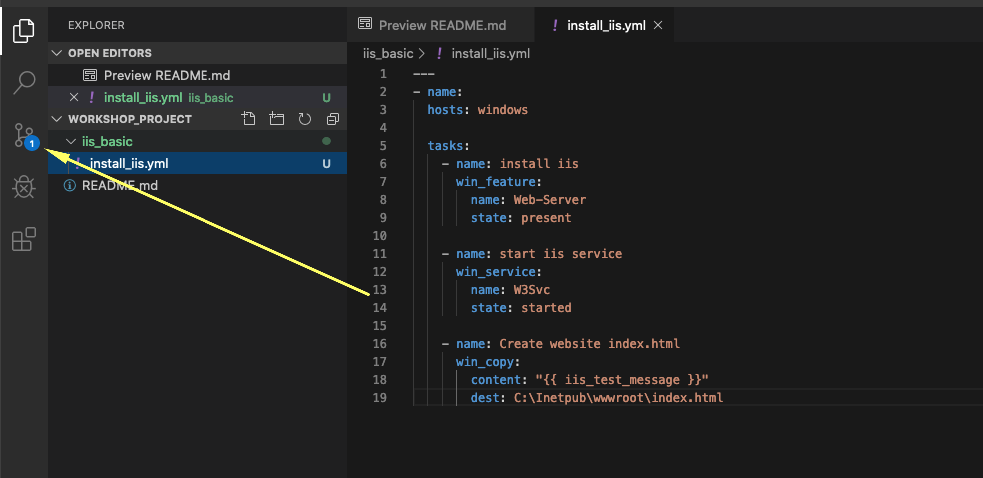
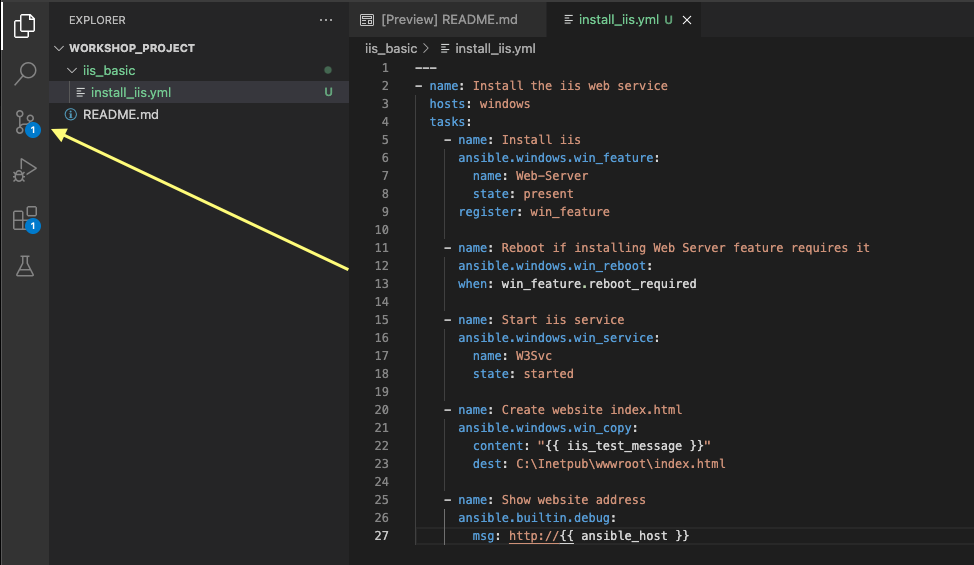
adding new images and updating README to better reflect experience when running this module

diff --git a/exercises/ansible_windows/3-playbook/README.md b/exercises/ansible_windows/3-playbook/README.md
@@ -140,6 +140,11 @@ of this exercise.
       ansible.windows.win_feature:
         name: Web-Server
         state: present
+      register: win_feature
+
+    - name: Reboot if installing Web Server feature requires it                 
+      ansible.windows.win_reboot:                                               
+      when: win_feature.reboot_required  
 ```
 
 * These lines are calling the Ansible module **`win_feature`** to
@@ -220,7 +225,7 @@ Now you need to push the committed changes to your repository.
 
 **For your first commit:** Click the **"Publish Branch"** button in the Source Control panel on the left side of VS Code.
 
-![Git Publish Branch](images/3-vscode-push.png)
+![Git Publish Branch](images/3-vscode-publish.png)
 
 **For subsequent commits:** Use the circular arrows in the bottom left blue bar to push changes.
 
